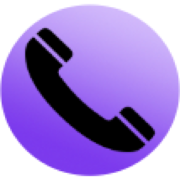
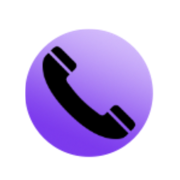
Refactor code structure for improved readability and maintainability

diff --git a/src/context/dialerContext/DialerProvider.tsx b/src/context/dialerContext/DialerProvider.tsx
@@ -362,11 +362,6 @@ export const DialerProvider = ({ children }: DialerProviderProps) => {
   }, [isAuthenticated, stopCallTimer, showToast, reconnectSip, sipConnected]);
 
   const call = useCallback(async (phoneNumber: string, campagneId?: number, prospectId?: number) => {
-    if (isMobilePhone(phoneNumber)) {
-      console.error('[SIP] Appel bloqué : numéro mobile détecté', phoneNumber);
-      return;
-    }
-
     if (!uaRef.current || !sipConnected) {
       console.warn('[SIP] Non connecté, impossible d\'appeler');
       return;
@@ -706,7 +701,8 @@ export const DialerProvider = ({ children }: DialerProviderProps) => {
         for (let i = 0; i < MAX_SKIPS; i++) {
           try {
             const candidate = await dialerService.getNextProspect();
-            if (candidate.telephone && isMobilePhone(candidate.telephone)) {
+            // Le backend filtre déjà selon autoriser_mobile, mais on garde une sécurité frontend
+            if (candidate.telephone && isMobilePhone(candidate.telephone) && !candidate.autoriser_mobile) {
               console.warn(`[DIALER] Prospect #${candidate.id_prospect} skip (mobile ${candidate.telephone})`);
               if (candidate.id_prospection) dialerService.markMobile(candidate.id_prospection).catch(() => {});
               continue;
@@ -726,11 +722,6 @@ export const DialerProvider = ({ children }: DialerProviderProps) => {
   }, [sipConnected, showToast]);
 
   const openProspectManual = useCallback(async (prospectId: number, origin: 'manuel' | 'rappel', prospectPhone?: string) => {
-    if (prospectPhone && isMobilePhone(prospectPhone)) {
-      console.error('[DIALER] Appel bloqué : numéro mobile détecté', prospectPhone);
-      throw new Error('Impossible d\'appeler un numéro mobile');
-    }
-
     try {
       // 1. Récupérer la 1re campagne active de l'agent
       const campagnes = await dialerService.getCampagnesAgent();
@@ -738,16 +729,23 @@ export const DialerProvider = ({ children }: DialerProviderProps) => {
         console.warn('[DIALER] Aucune campagne active');
         return;
       }
-      const campagneId = campagnes[0].id_campagne;
+      const campagne = campagnes[0];
+      const campagneId = campagne.id_campagne;
 
-      // 2. Status → appel_sortant (empêche auto-dequeue)
+      // 2. Vérifier si c'est un mobile et si la campagne l'autorise
+      if (prospectPhone && isMobilePhone(prospectPhone) && !campagne.autoriser_mobile) {
+        console.error('[DIALER] Appel bloqué : numéro mobile détecté', prospectPhone);
+        throw new Error('Impossible d\'appeler un numéro mobile (campagne ne l\'autorise pas)');
+      }
+
+      // 3. Status → appel_sortant (empêche auto-dequeue)
       setStatut('appel_sortant');
       setRaisonPause(null);
       setDepuisLe(new Date());
       setProchainProspect(null);
       await dialerService.changerStatut('appel_sortant');
 
-      // 3. Créer l'appel en BDD
+      // 4. Créer l'appel en BDD
       const appel = await appelService.createAppel({
         id_prospect: prospectId,
         id_campagne: campagneId,
@@ -760,7 +758,7 @@ export const DialerProvider = ({ children }: DialerProviderProps) => {
       setCurrentCampagneId(campagneId);
       setCurrentOrigineAppel(origin);
 
-      // 4. Lancer l'appel SIP (même flow que auto-dequeue mais agent-choisi)
+      // 5. Lancer l'appel SIP (même flow que auto-dequeue mais agent-choisi)
       if (prospectPhone) {
         await call(prospectPhone, campagneId, prospectId);
       }

diff --git a/src/API/services/Dialer.service.ts b/src/API/services/Dialer.service.ts
@@ -39,8 +39,8 @@ export class DialerService {
     await apiCalls.post('/agents/me/heartbeat');
   }
 
-  public async getCampagnesAgent(): Promise<Array<{ id_campagne: number; nom_campagne: string; statut: string }>> {
-    const response = await apiCalls.get<Array<{ id_campagne: number; nom_campagne: string; statut: string }>>('/agents/me/campagnes');
+  public async getCampagnesAgent(): Promise<Array<{ id_campagne: number; nom_campagne: string; statut: string; autoriser_mobile: boolean }>> {
+    const response = await apiCalls.get<Array<{ id_campagne: number; nom_campagne: string; statut: string; autoriser_mobile: boolean }>>('/agents/me/campagnes');
     return throwIfApiError(response, 'Erreur lors de la récupération des campagnes');
   }
 

diff --git a/src/utils/types/dialer.types.ts b/src/utils/types/dialer.types.ts
@@ -37,4 +37,5 @@ export interface ProspectAssigne {
   id_campagne_assignee: number | null;
   id_prospection?: number;
   nb_tentatives?: number;
+  autoriser_mobile?: boolean;
 }
